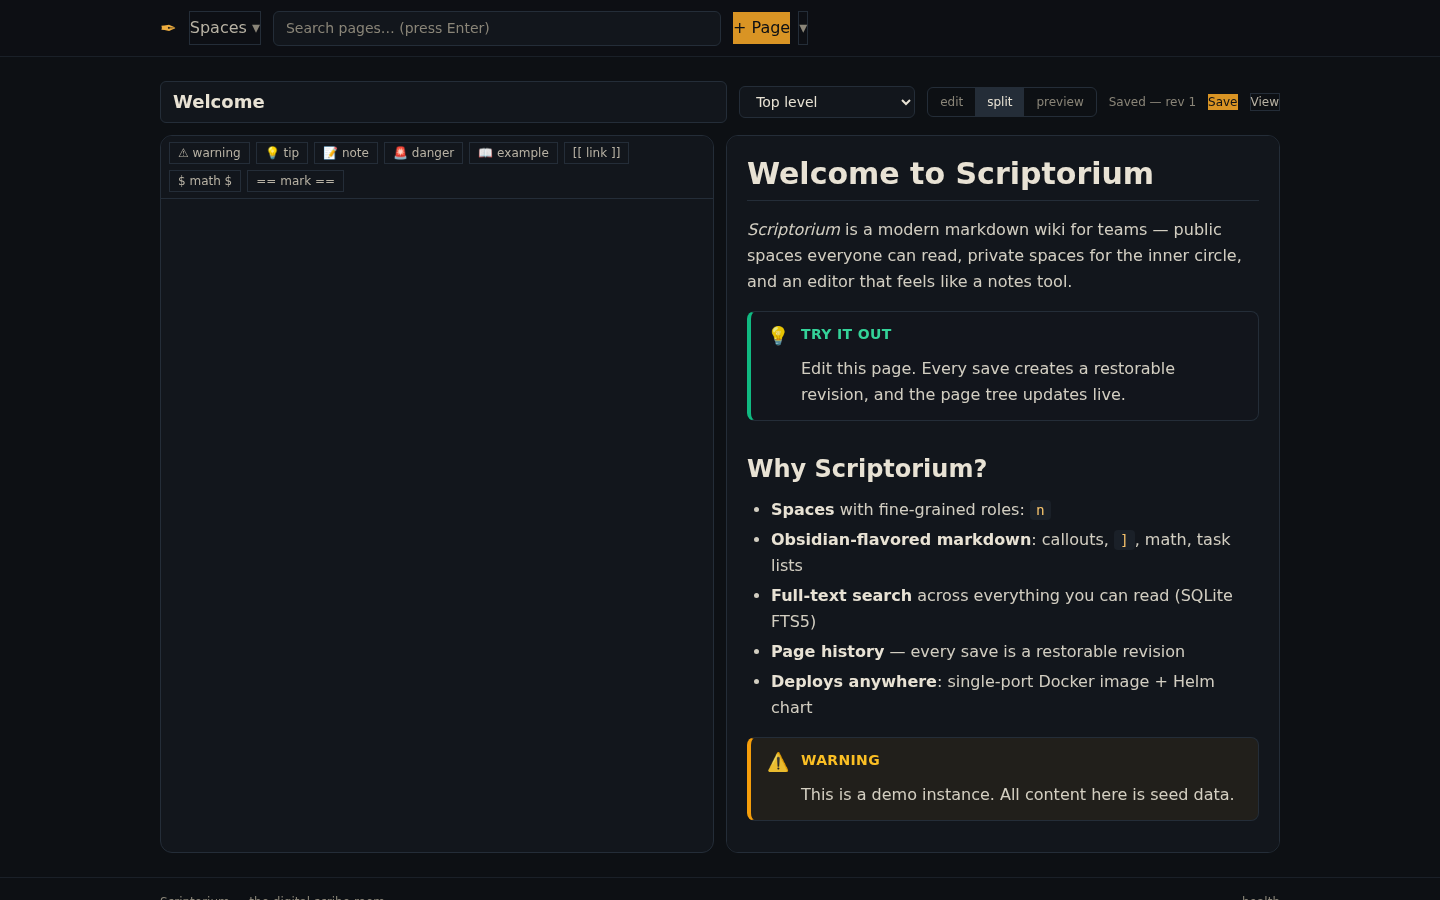
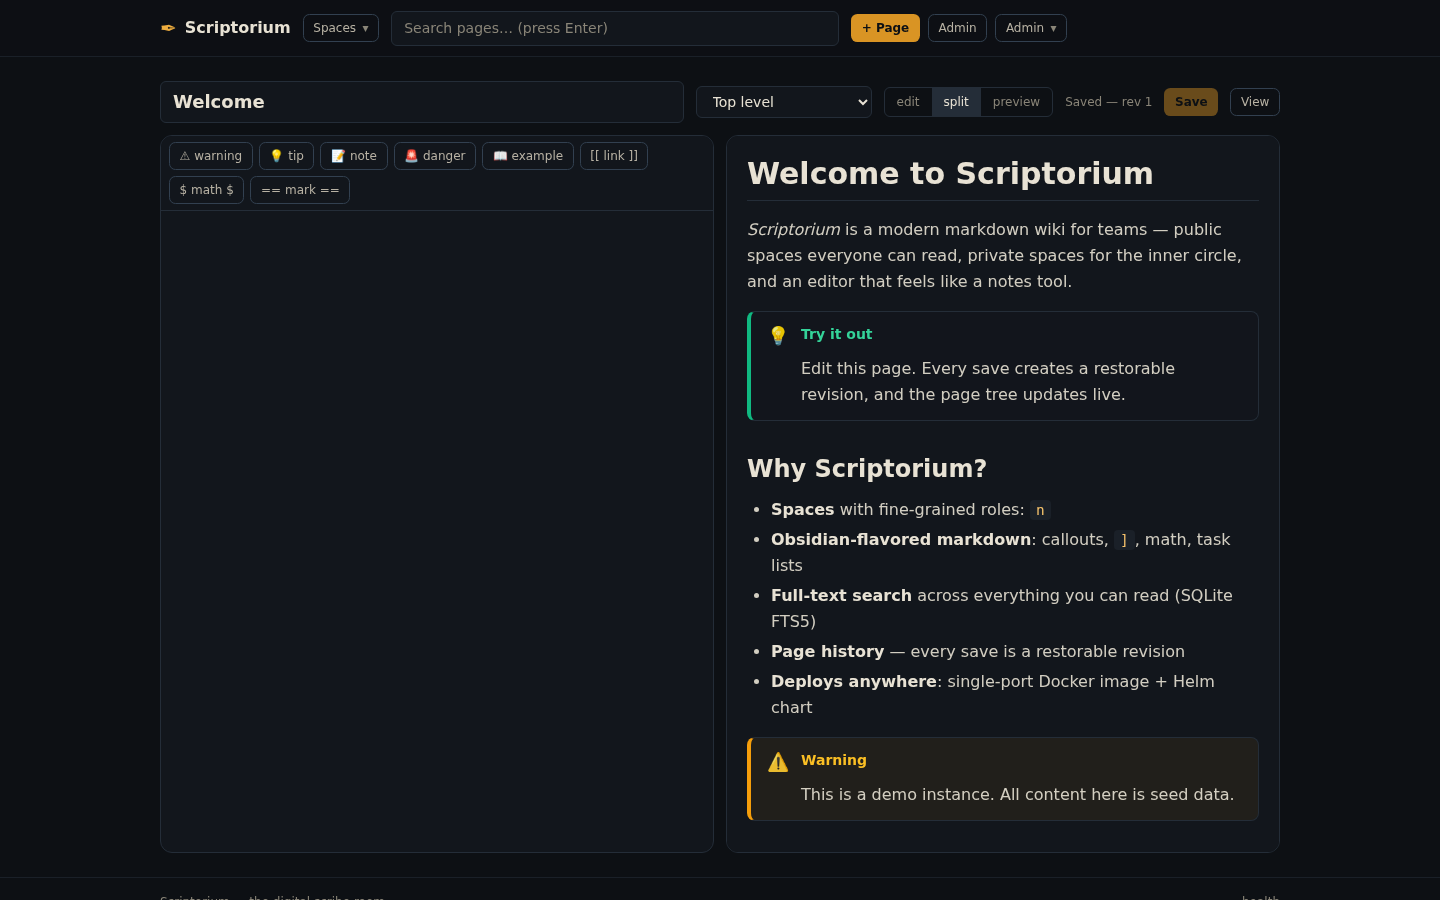
fix: admin dashboard rendered 'Admins only' for everyone; refresh screenshots
Root cause: +layout.server.js returned resolveUser()'s WHOLE wrapper
({user, session, csrf}) as page.data.user, so data.user.role was always
undefined — the admin gate failed for every user, and the nav showed a
blank username. Return the user record itself.

Also refreshes all 7 README screenshots on the restyled UI, and the
admin shot is finally a real, populated dashboard (seed now creates a
second admin + members with mixed roles and genuine activity).

Verified: 50/50 e2e (new regression check asserts SSR /admin renders
for an admin), svelte-check clean.

diff --git a/web/src/routes/+layout.server.js b/web/src/routes/+layout.server.js
@@ -4,6 +4,10 @@
 import { resolveUser } from '$lib/server-core.js';
 
 export async function load(event) {
-  const user = resolveUser(event.request);
+  // resolveUser returns { user, session, csrf } — expose only the user record
+  // (not the wrapper), so page.data.user has .role / .name / .id. Returning
+  // the wrapper made data.user.role undefined and the admin page / user menu
+  // broke for everyone.
+  const { user } = resolveUser(event.request);
   return { user };
 }
